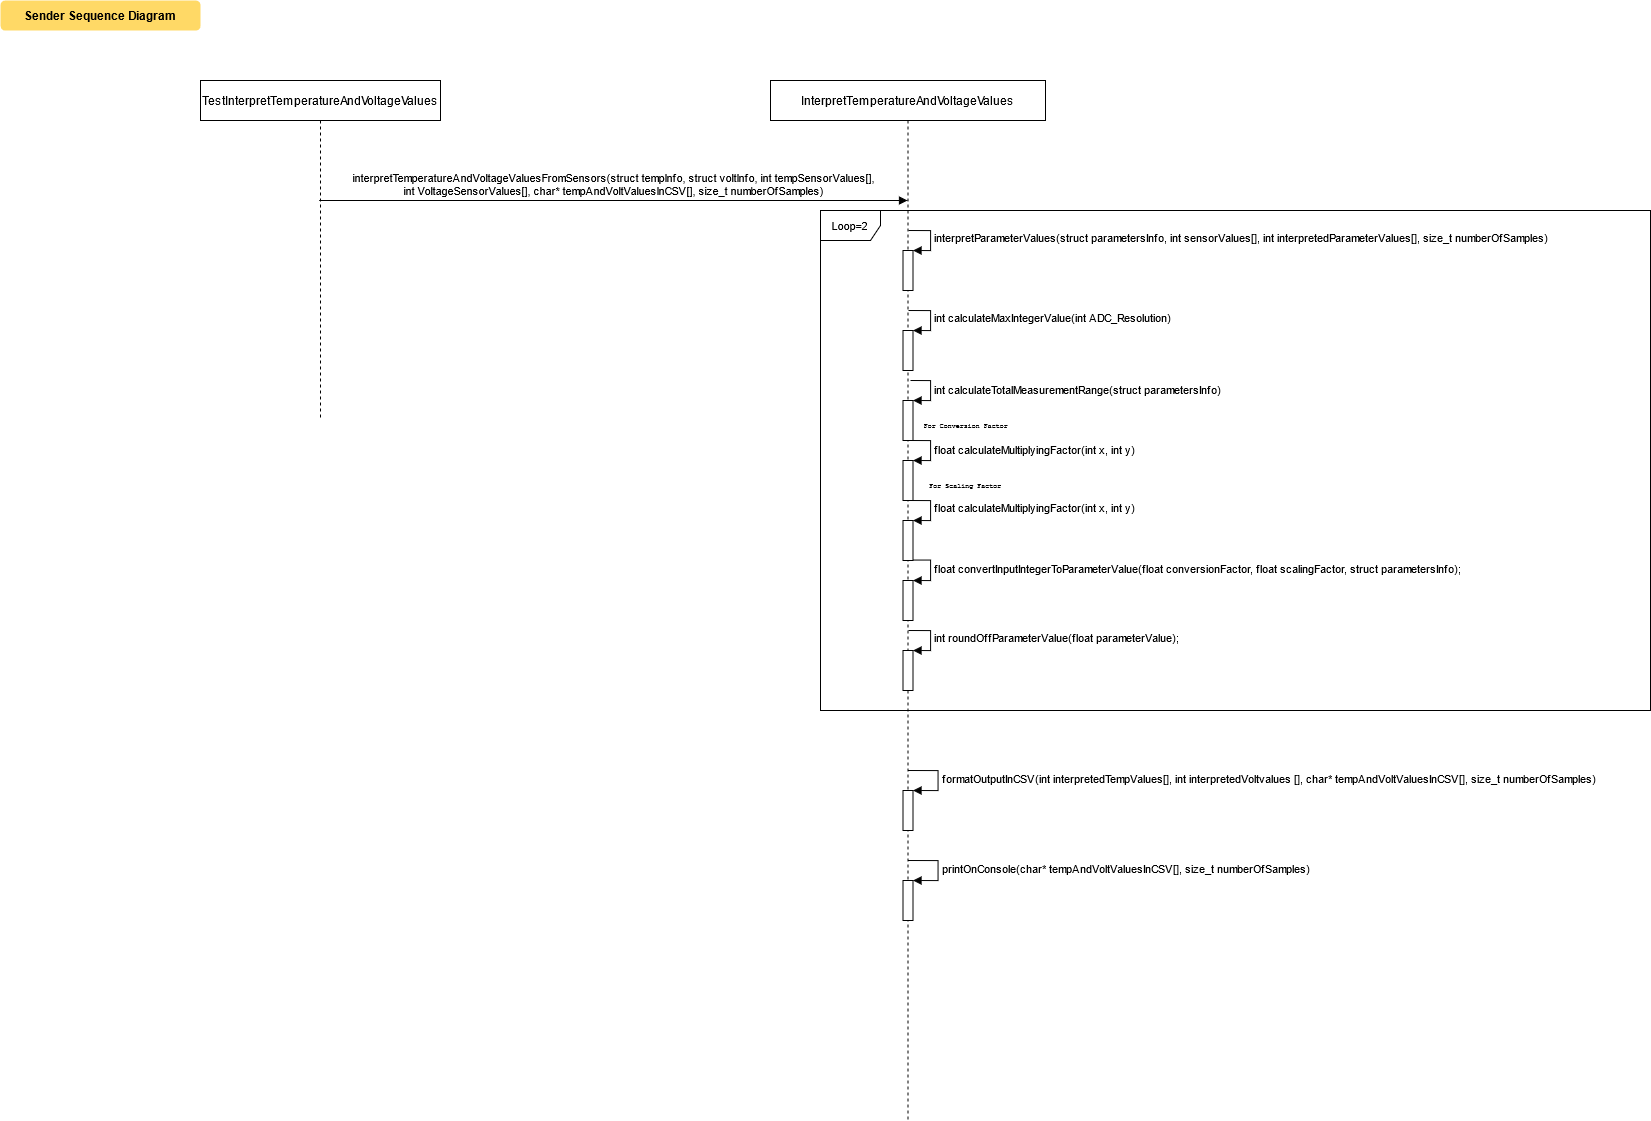
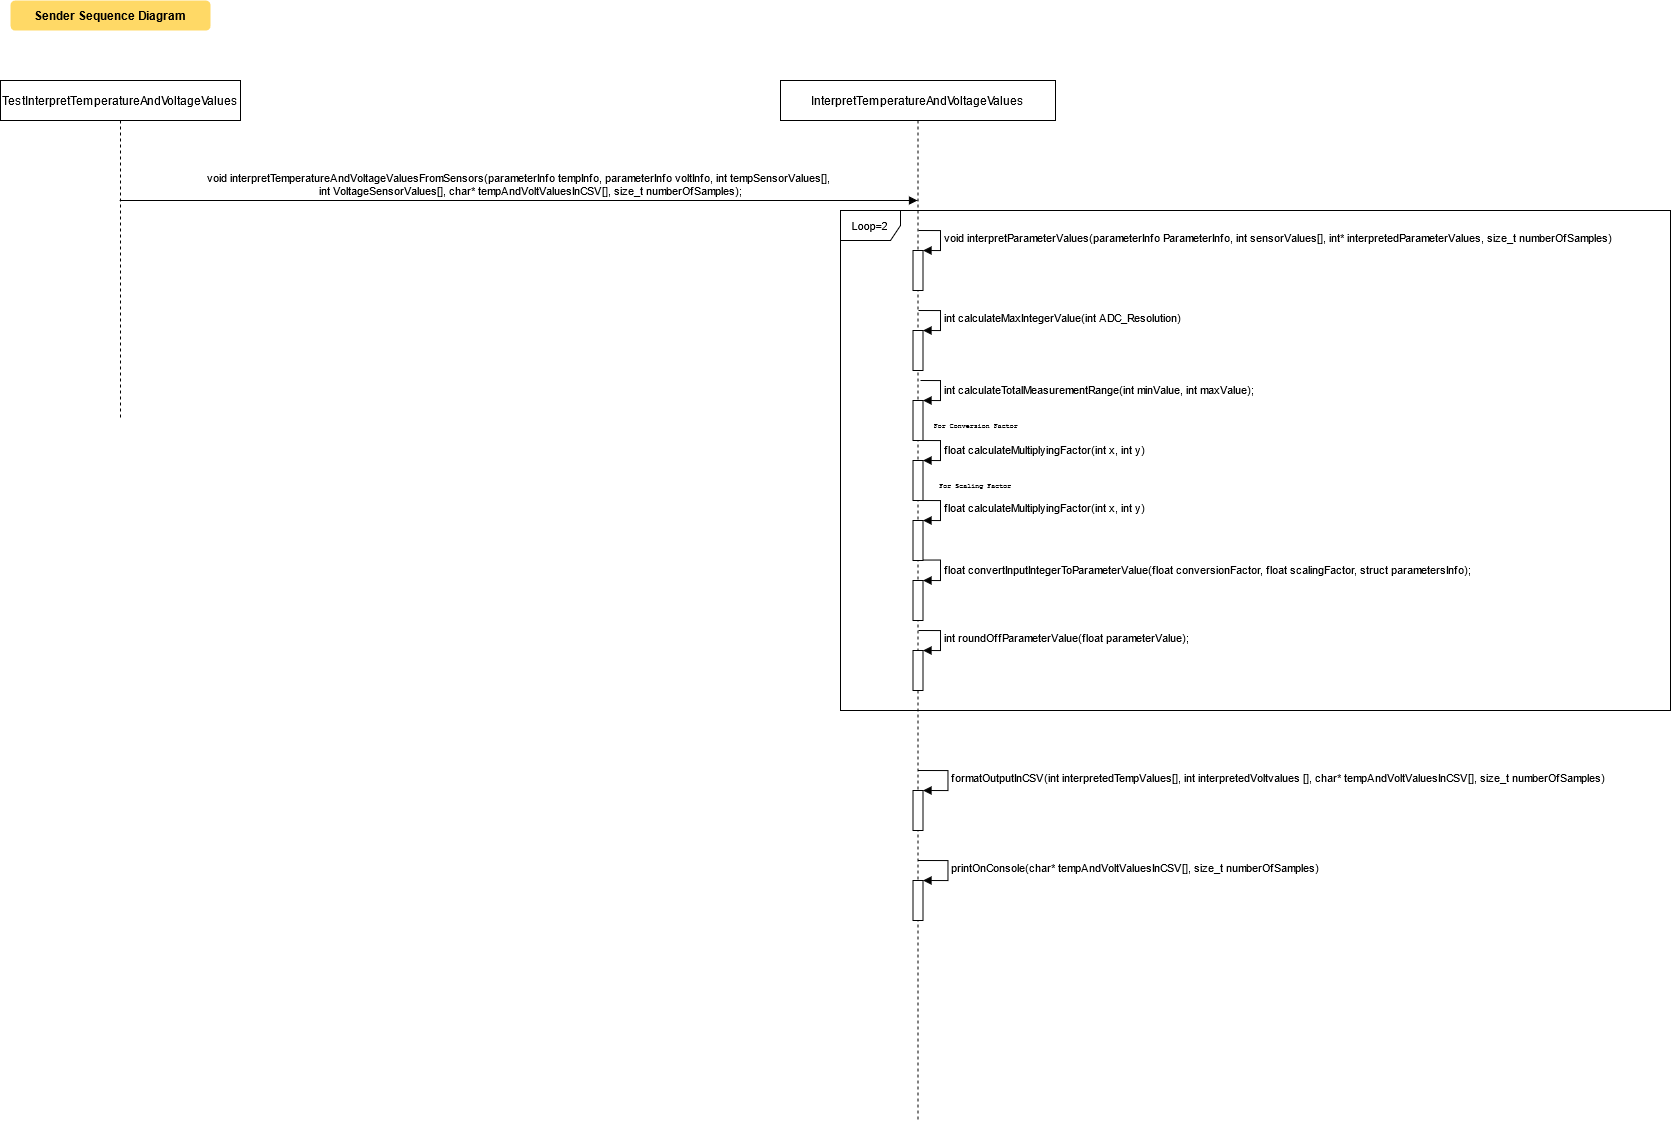
Added testcase and implementation for getting sensor input and processing

diff --git a/sender/InterpretTemperatureAndVoltageValues.c b/sender/InterpretTemperatureAndVoltageValues.c
@@ -1,0 +1,92 @@
+#include <stdio.h>
+#include <math.h>
+#include <string.h>
+#include "InterpretTemperatureAndVoltageValues.h"
+
+
+	
+int calculateMaxIntegerValue(int ADC_Resolution) {
+	int maxIntegerValue;
+	// Integer Value starts with zero
+	maxIntegerValue = (1 << ADC_Resolution) - 1;
+	return maxIntegerValue;
+}
+
+int calculateTotalMeasurementRange(int minValue, int maxValue) {
+	int totalMeasurementRange;
+	totalMeasurementRange = maxValue - minValue;
+	return totalMeasurementRange;
+}
+
+float calculateMultiplyingFactor(int param_1, int param_2) {
+	float multiplyingFactor;
+	multiplyingFactor = float(param_1) / float(param_2);
+	return multiplyingFactor;
+}
+
+float convertInputIntegerToParameterValue(float conversionFactor, float scalingFactor, parameterInfo ParameterInfo){
+	float parameterValue;	
+	parameterValue = ParameterInfo.minValue + (ParameterInfo.maxValue * conversionFactor * scalingFactor);
+	return parameterValue;
+}
+
+int roundOffParameterValue(float interpretedValue){
+	int roundedOffValue;
+	roundedOffValue = round(interpretedValue);
+	return roundedOffValue;
+}
+
+void allocateCharJaggedArray(char* p[], int arraySize){
+	for (int i=0; i < arraySize; i++) {
+		p[i] = (char*)malloc(10);
+	}
+}
+
+void printOnConsole(char* tempAndVoltValuesInCSV[], size_t numberOfSamples) {
+	printf("Temperature, Voltage \n");
+	for (size_t i=0; i<numberOfSamples; i++) {
+		printf("%s\n", tempAndVoltValuesInCSV[i]);
+	}
+}
+
+void freeMemoryForCharJaggedArray(char* pChar[], int arraySize) {
+	for (int i=0; i < arraySize; i++) {
+		free(pChar[i]);
+	}
+}
+
+void formatOutputInCSV(int *interpretedTempValues, int *interpretedVoltValues, char* tempAndVoltValuesInCSV[], size_t numberOfSamples){
+
+	allocateCharJaggedArray(tempAndVoltValuesInCSV, numberOfSamples);
+	for (size_t i=0; i < numberOfSamples; i++) {	
+		sprintf(tempAndVoltValuesInCSV[i], "%d, %d", interpretedTempValues[i], interpretedVoltValues[i]);
+	}
+	printOnConsole(tempAndVoltValuesInCSV, numberOfSamples);
+}
+
+void interpretParameterValues(parameterInfo ParameterInfo, int sensorValues[], int* interpretedParameterValues, size_t numberOfSamples){
+	
+	int maxIntValue, totalMeasurementRange, roundedOffValue;
+	float conversionFactor, scalingFactor, interpretedValue;
+
+	maxIntValue = calculateMaxIntegerValue(ParameterInfo.resolution);
+	totalMeasurementRange = calculateTotalMeasurementRange(ParameterInfo.minValue, ParameterInfo.maxValue);
+	scalingFactor = calculateMultiplyingFactor(totalMeasurementRange, ParameterInfo.maxValue);
+	for (size_t i=0; i<numberOfSamples; i++){
+		conversionFactor = calculateMultiplyingFactor(sensorValues[i], maxIntValue);
+		interpretedValue = convertInputIntegerToParameterValue(conversionFactor, scalingFactor, ParameterInfo);
+		roundedOffValue = roundOffParameterValue(interpretedValue);
+		interpretedParameterValues[i] = roundedOffValue;
+	}
+}
+
+void interpretTemperatureAndVoltageValuesFromSensors(parameterInfo tempInfo, parameterInfo voltInfo, int tempSensorValues[],
+	int voltageSensorValues[], char* tempAndVoltValuesInCSV[], size_t numberOfSamples){
+
+	int interpretedTempValues[numberOfSamples];
+	int interpretedVoltValues[numberOfSamples];
+
+	interpretParameterValues(tempInfo, tempSensorValues, interpretedTempValues, numberOfSamples);
+	interpretParameterValues(voltInfo, voltageSensorValues, interpretedVoltValues, numberOfSamples);
+	formatOutputInCSV(interpretedTempValues, interpretedVoltValues, tempAndVoltValuesInCSV, numberOfSamples);
+}

diff --git a/sender/TestInterpretTemperatureAndVoltageValues.cpp b/sender/TestInterpretTemperatureAndVoltageValues.cpp
@@ -1,3 +1,86 @@
 #define CATCH_CONFIG_MAIN  // This tells Catch to provide a main() - only do this in one cpp file
 
 #include "../test-framework/catch.hpp"
+#include "InterpretTemperatureAndVoltageValues.h"
+
+#include <iostream>
+#include <fstream>
+
+using std::cout; 
+using std::cerr;
+using std::endl; 
+using std::string;
+using std::ifstream;
+
+void getInputValues(char inputFileName[], int *parameterSensorADCValues){
+	int  valueRead, i=0;
+	string InputValues(inputFileName);
+	ifstream input_file(InputValues);
+
+	if(!input_file.is_open()) {
+		cerr << "Could not open the input file" << endl;
+	}
+	while (input_file >> valueRead) {
+		parameterSensorADCValues[i] = valueRead;
+		i++;
+	}
+	cout << endl;
+	input_file.close();
+}
+
+SCENARIO( "Interpret Temperature and Voltage for randomly generated integer values of 'n' bit resolution" ){
+	struct parameterInfo tempInfo;
+	struct parameterInfo voltInfo;
+	size_t numberOfSamples = 0;
+	int voltSensorADCValues[MAX_INPUT_STREAM];
+	int tempSensorADCValues[MAX_INPUT_STREAM];
+	int valueReadTemp, valueReadVolt, i=0, j=0;
+	int maxChar=50;
+	char expectedOutput[MAX_INPUT_STREAM][10];
+	char outputValueRead[maxChar];
+
+	GIVEN( "Integer values of 'n' bit resolution for given measurement range for simulation of temperature and voltage sensor output"){
+
+		tempInfo.minValue = -45;
+		tempInfo.maxValue = 85;
+		tempInfo.resolution = 10;
+		voltInfo.minValue = 0;
+		voltInfo.maxValue = 60;
+		voltInfo.resolution = 12;	
+		
+		getInputValues("TempSensorValues.txt", tempSensorADCValues);
+		getInputValues("VoltSensorValues.txt", voltSensorADCValues);
+		
+		//Expected Output Values
+		string expectedTempAndVolt("OutputValues.txt");
+	
+		ifstream output_file(expectedTempAndVolt);
+
+		if (!output_file.is_open()) {
+			cerr << "Could not open the output file" << endl;
+		}
+		while (output_file.getline(outputValueRead, maxChar)){
+			strcpy(expectedOutput[j], outputValueRead);	
+			j++;
+		}
+		cout << endl;
+		output_file.close();
+		
+		// Size of Input Samples
+		numberOfSamples = sizeof(tempSensorADCValues) / sizeof(tempSensorADCValues[0]);
+		
+		char* tempAndVoltValuesInCSV[numberOfSamples];
+
+		WHEN ( "interpretChargingCurrentRangeAndOccurences method is called" ) {
+			interpretTemperatureAndVoltageValuesFromSensors(tempInfo, voltInfo, tempSensorADCValues,
+					voltSensorADCValues, tempAndVoltValuesInCSV, numberOfSamples);
+
+			THEN ( "Interpreted parameter values in CSV format should be" ) {
+				for(size_t k=0; k < numberOfSamples; k++) {
+					REQUIRE(strcmp(tempAndVoltValuesInCSV[k], expectedOutput[k]) == 0);
+				}
+			}
+		}
+	}
+}
+

diff --git a/sender/InterpretTemperatureAndVoltageValues.h b/sender/InterpretTemperatureAndVoltageValues.h
@@ -1,0 +1,19 @@
+#define MAX_INPUT_STREAM 50
+
+struct parameterInfo{
+	int minValue;
+	int maxValue;
+	int resolution;
+};
+
+void interpretTemperatureAndVoltageValuesFromSensors(parameterInfo tempInfo, parameterInfo voltInfo, int tempSensorValues[],
+	int VoltageSensorValues[], char* tempAndVoltValuesInCSV[], size_t numberOfSamples);
+int calculateMaxIntegerValue(int ADC_Resolution);
+int calculateTotalMeasurementRange(int minValue, int maxValue);
+float calculateMultiplyingFactor(int param_1, int param_2);
+float convertInputIntegerToParameterValue(float conversionFactor, float scalingFactor, parameterInfo ParameterInfo);
+int roundOffParameterValue(float interpretedValue);
+void allocateCharJaggedArray(char* p[], int arraySize);
+void printOnConsole(char* tempAndVoltValuesInCSV[], size_t numberOfSamples);
+void freeMemoryForCharJaggedArray(char* pChar[], int arraySize);
+void interpretParameterValues(parameterInfo ParameterInfo, int sensorValues[], int* interpretedParameterValues, size_t numberOfSamples);
